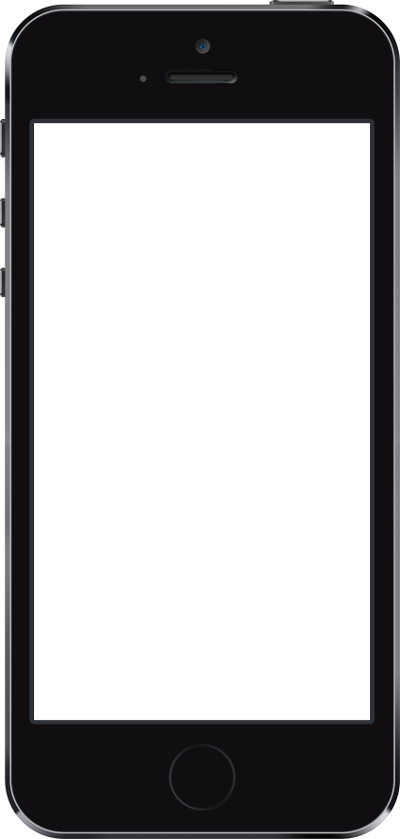
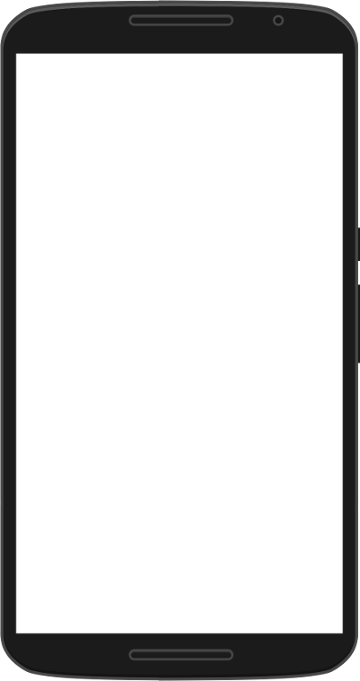
[IMP] project_timesheet_synchro: better timesheet app page now you see more of the app even a small-ish screens

Changed region(s): [[0.0, 0.0, 1.0, 1.0]]

diff --git a/project_timesheet_synchro/static/src/css/project_timesheet_backend.less b/project_timesheet_synchro/static/src/css/project_timesheet_backend.less
@@ -2,12 +2,14 @@
 
     background-image: url(../img/smartphone.png);
     background-repeat: no-repeat;
-    height: 900px;
+    height: 700px;
     position: relative;
     background-position: top center;
-    padding-top: 123px;
-    padding-left: 4px;
-
+        iframe {
+            margin-top: 53px;
+            width: 330px;
+            height: 582px;
+        }
 }
 
 .o_project_timesheet_app_links {
@@ -16,7 +18,7 @@
     .o-align-items(center);
 
     @media (min-width: 992px) {
-        height: 900px;
+        height: 700px;
     }
     
     .flex-container {

diff --git a/project_timesheet_synchro/static/src/js/timesheet_app_backend.js b/project_timesheet_synchro/static/src/js/timesheet_app_backend.js
@@ -24,7 +24,7 @@ odoo.define('projcet_timesheet_synchro.app', function (require) {
         },
         start: function(parent) {
         var res= this._super(parent);
-        this.$el.css({height: '597px', width: '336px', border: 0});
+        this.$el.css({height: '582px', width: '330px', border: 0});
         return res;
     },
     });
